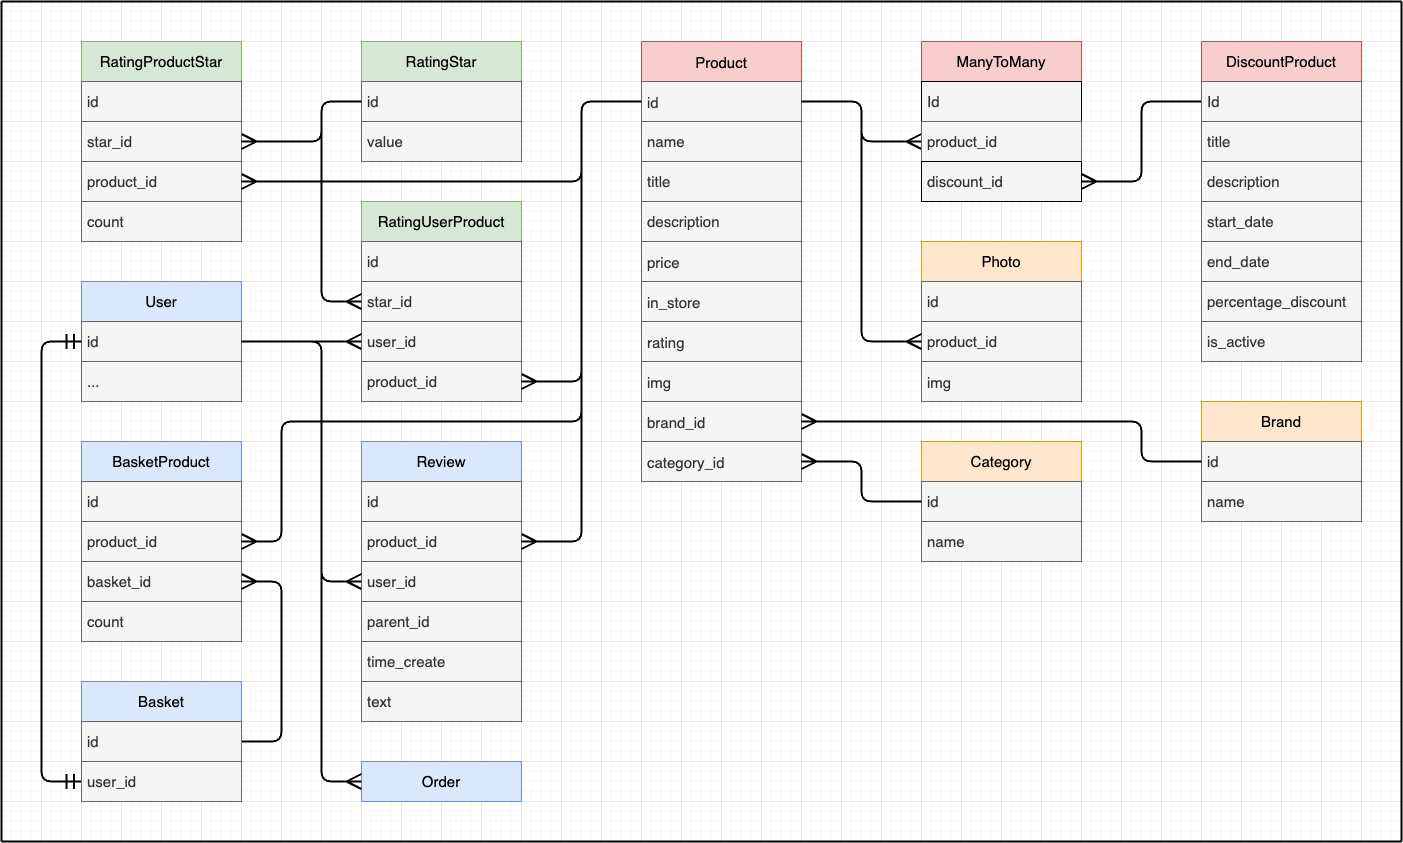
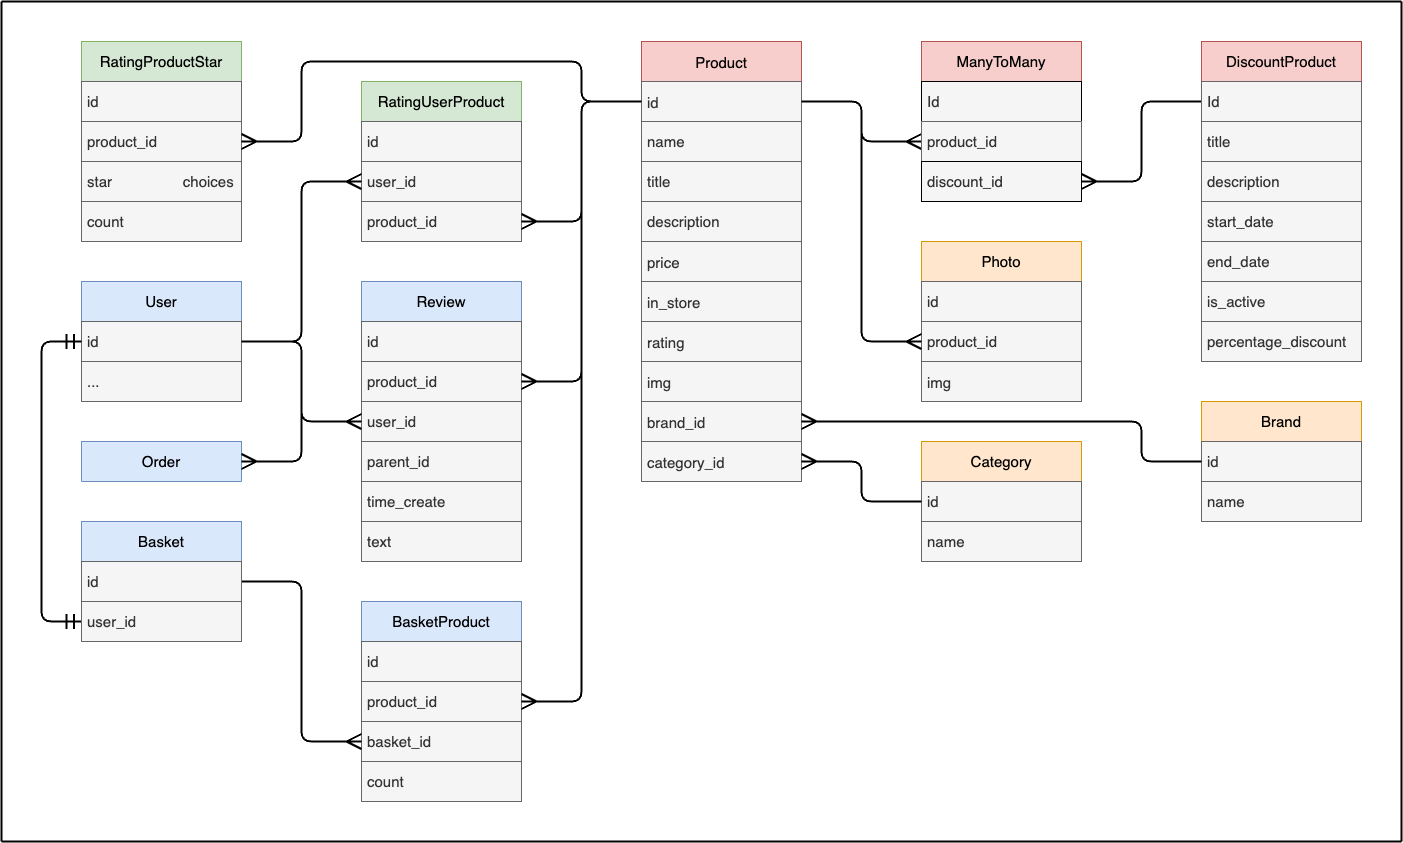
refactor

diff --git a/src/store/models.py b/src/store/models.py
@@ -6,7 +6,7 @@ class Product(models.Model):
     name = models.CharField(max_length=50)
     title = models.CharField(max_length=250)
     description = models.TextField(max_length=5000)
-    price = models.PositiveIntegerField(default=0)
+    price = models.DecimalField(max_digits=10, decimal_places=2)
     in_store = models.BooleanField(default=True)
     img = models.ImageField(upload_to='img/%Y/%m/%d/', null=True, blank=True)
     category = models.ForeignKey('Category', on_delete=models.PROTECT)
@@ -15,6 +15,22 @@ class Product(models.Model):
 
     def __str__(self):
         return self.name
+
+    class Meta:
+        ordering = ['id']
+
+
+class DiscountProduct(models.Model):
+    title = models.CharField(max_length=50)
+    description = models.TextField(max_length=5000)
+    start_date = models.DateTimeField()
+    end_date = models.DateTimeField()
+    is_active = models.BooleanField(default=False)
+    percentage_discount = models.DecimalField(max_digits=2, decimal_places=1)
+    products = models.ManyToManyField(Product, related_name="discounts")
+
+    def __str__(self):
+        return self.title
 
     class Meta:
         ordering = ['id']
@@ -34,19 +50,11 @@ class Review(models.Model):
         ordering = ['id']
 
 
-class RatingStar(models.Model):
-    value = models.SmallIntegerField(default=0)
-
-    def __str__(self):
-        return f'{self.value}'
-
-    class Meta:
-        ordering = ['id']
-
-
 class RatingProductStar(models.Model):
+    RATING_CHOICES = [(1, '1'), (2, '2'), (3, '3'), (4, '4'), (5, '5')]
+
     product = models.ForeignKey(Product, on_delete=models.CASCADE)
-    star = models.ForeignKey(RatingStar, on_delete=models.CASCADE)
+    star = models.SmallIntegerField(choices=RATING_CHOICES)
     count = models.PositiveIntegerField(default=0)
 
     def __str__(self):
@@ -59,7 +67,6 @@ class RatingProductStar(models.Model):
 class RatingUserProduct(models.Model):
     user = models.ForeignKey(settings.AUTH_USER_MODEL, on_delete=models.CASCADE)
     product = models.ForeignKey(Product, on_delete=models.CASCADE)
-    star = models.ForeignKey(RatingStar, on_delete=models.CASCADE)
 
     def __str__(self):
         return f'user - {self.user} product - {self.product}'

diff --git a/src/store/views.py b/src/store/views.py
@@ -2,10 +2,12 @@ from rest_framework import generics, filters, status
 from rest_framework.permissions import IsAuthenticated, AllowAny
 from django_filters.rest_framework import DjangoFilterBackend
 from django.contrib.auth import get_user_model
+from django.utils.decorators import method_decorator
+from django.views.decorators.cache import cache_page
 from rest_framework.response import Response
 from .services import add_product_in_basket, add_rating
 from .permissions import IsAdminOrReadOnly, IsOwnerOrReadOnly
-from .models import Product, Review, Basket, BasketProduct
+from .models import Product, Review, Basket, BasketProduct, RatingUserProduct
 from .serializers import (
     ProductsListSerializer,
     ProductsDetailSerializer,
@@ -18,7 +20,7 @@ from .serializers import (
 )
 
 
-class ProductsListView(generics.ListCreateAPIView):  # todo кеш
+class ProductsListView(generics.ListCreateAPIView):
     queryset = Product.objects.filter(in_store=True)
     serializer_class = ProductsListSerializer
     permission_classes = (IsAdminOrReadOnly,)
@@ -26,6 +28,16 @@ class ProductsListView(generics.ListCreateAPIView):  # todo кеш
     filterset_fields = ['category', 'brand']
     search_fields = ['name']
     ordering_fields = ['price']
+
+    @method_decorator(cache_page(60 * 15))
+    def list(self, request, *args, **kwargs):
+        queryset = self.filter_queryset(self.get_queryset())
+        page = self.paginate_queryset(queryset)
+        if page is not None:
+            serializer = self.get_serializer(page, many=True)
+            return self.get_paginated_response(serializer.data)
+        serializer = self.get_serializer(queryset, many=True)
+        return Response(serializer.data)
 
 
 class ProductsDetailView(generics.RetrieveUpdateDestroyAPIView):
@@ -88,6 +100,7 @@ class BasketDetailView(generics.RetrieveUpdateDestroyAPIView):
 
 
 class RatingCreateView(generics.CreateAPIView):
+    queryset = RatingUserProduct.objects.all()
     serializer_class = RatingCreateSerializer
     permission_classes = (IsAuthenticated,)
 

diff --git a/src/store/admin.py b/src/store/admin.py
@@ -1,21 +1,13 @@
 from django.contrib import admin
-from .models import (
-    Product,
-    Category,
-    Brand,
-    RatingStar,
-    RatingUserProduct,
-    RatingProductStar,
-    Basket,
-    BasketProduct,
-)
+from . import models
 
 
-admin.site.register(Product)
-admin.site.register(Category)
-admin.site.register(Brand)
-admin.site.register(RatingStar)
-admin.site.register(RatingProductStar)
-admin.site.register(Basket)
-admin.site.register(BasketProduct)
-admin.site.register(RatingUserProduct)
+admin.site.register(models.Product)
+admin.site.register(models.DiscountProduct)
+admin.site.register(models.Category)
+admin.site.register(models.Brand)
+admin.site.register(models.RatingStar)
+admin.site.register(models.RatingProductStar)
+admin.site.register(models.Basket)
+admin.site.register(models.BasketProduct)
+admin.site.register(models.RatingUserProduct)

diff --git a/src/store/services.py b/src/store/services.py
@@ -24,7 +24,7 @@ def _get_rating_product(*, queryset):
     count_all = 0
     count_star = 0
     for obj in queryset:
-        count_star += obj.count * obj.star.value
+        count_star += obj.count * obj.star
         count_all += obj.count
     return count_star/count_all
 
@@ -48,6 +48,6 @@ def add_rating(*, user, validated_data):
     product = validated_data.get('product')
     star = validated_data.get('star')
     _check_user_is_add_rating(user=user, product=product)
-    RatingUserProduct.objects.create(user=user, **validated_data)
+    RatingUserProduct.objects.create(user=user, product=product)
     _increment_counter_rating_product_star(product=product, star=star)
     _save_rating_product(product=product)

diff --git a/src/online_store/settings.py b/src/online_store/settings.py
@@ -57,6 +57,14 @@ TEMPLATES = [
 WSGI_APPLICATION = 'online_store.wsgi.application'
 
 
+# CACHES = {
+#     'default': {
+#         'BACKEND': 'django.core.cache.backends.redis.RedisCache',
+#         'LOCATION': f'redis://{os.environ.get("REDIS_HOST")}:{os.environ.get("REDIS_PORT")}',
+#     }
+# }
+#
+#
 # DATABASES = {
 #     "default": {
 #         "ENGINE": os.environ.get("SQL_ENGINE"),

diff --git a/src/store/serializers.py b/src/store/serializers.py
@@ -103,6 +103,7 @@ class BasketSerializer(serializers.ModelSerializer):
 
 
 class RatingCreateSerializer(serializers.ModelSerializer):
+    star = serializers.ChoiceField([1, 2, 3, 4, 5])
 
     class Meta:
         model = RatingUserProduct

diff --git a/README.md b/README.md
@@ -1,26 +1,10 @@
 # DRF_online_store
 
 <details><summary>🏗 Deploy :</summary>
-Prod
-
-```commandline
-docker-compose -f docker-compose.prod.yml up -d --build
-docker-compose -f docker-compose.prod.yml exec web python src/manage.py makemigrations --noinput
-docker-compose -f docker-compose.prod.yml exec web python src/manage.py migrate --noinput
-docker-compose -f docker-compose.prod.yml exec web python src/manage.py collectstatic --no-input --clear
-docker-compose -f docker-compose.prod.yml exec web python src/manage.py createsuperuser --noinput
-```
-
-Dev
 
 ```commandline
 docker-compose up -d --build
-docker-compose exec web python src/manage.py makemigrations --noinput
-docker-compose exec web python src/manage.py migrate --noinput
-docker-compose exec web python src/manage.py flush --no-input
-docker-compose exec web python src/manage.py createsuperuser --noinput
 ```
-
 </details>
 
 ![Image alt](https://github.com/Lioniys/DRF_online_store/raw/main/screenshots/online_store_db.png)
